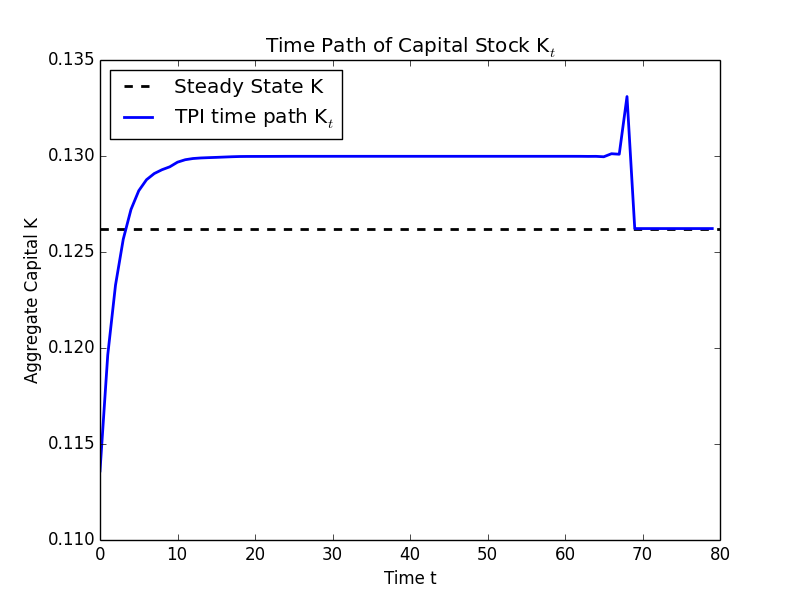
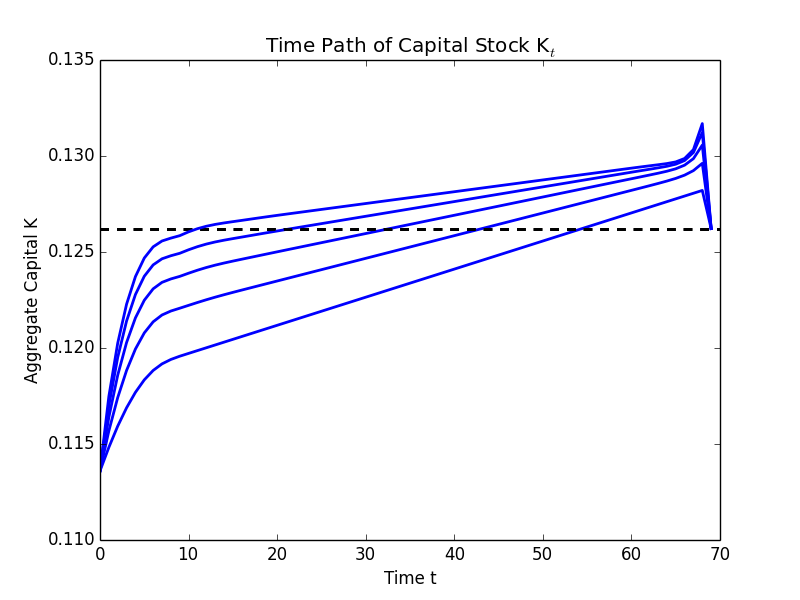
SS

diff --git a/Python/olg_endo_lab/TPI.py b/Python/olg_endo_lab/TPI.py
@@ -292,6 +292,25 @@ while (TPIiter < TPImaxiter) and (TPIdist >= TPImindist):
     winit = np.array(list((1-alpha) * (Yinit/Ninit)) + list(np.ones(S)*wss))
     rinit = np.array(list(alpha * (Yinit/Kinit) - delta) + list(
         np.ones(S)*rss))
+    plt.figure(7)
+    plt.axhline(
+        y=Kss, color='black', linewidth=2, label="Steady State K", ls='--')
+    plt.plot(np.arange(
+        T), Kinit, 'b', linewidth=2, label=r"TPI time path K$_t$")
+    plt.xlabel("Time t")
+    plt.ylabel("Aggregate Capital K")
+    plt.title(r"Time Path of Capital Stock K$_t$")
+    plt.savefig("OUTPUT/TPI_K")
+
+    plt.figure(13)
+    plt.axhline(
+        y=Nss, color='black', linewidth=2, label="Steady State N", ls='--')
+    plt.plot(np.arange(
+        T), Ninit, 'b', linewidth=2, label=r"TPI time path N$_t$")
+    plt.xlabel("Time t")
+    plt.ylabel("Aggregate Labor N")
+    plt.title(r"Time Path of Labor Supply N$_t$")
+    plt.savefig("OUTPUT/TPI_N")
 
 
 Kpath_TPI = list(Kinit) + list(np.ones(10)*Kss)
